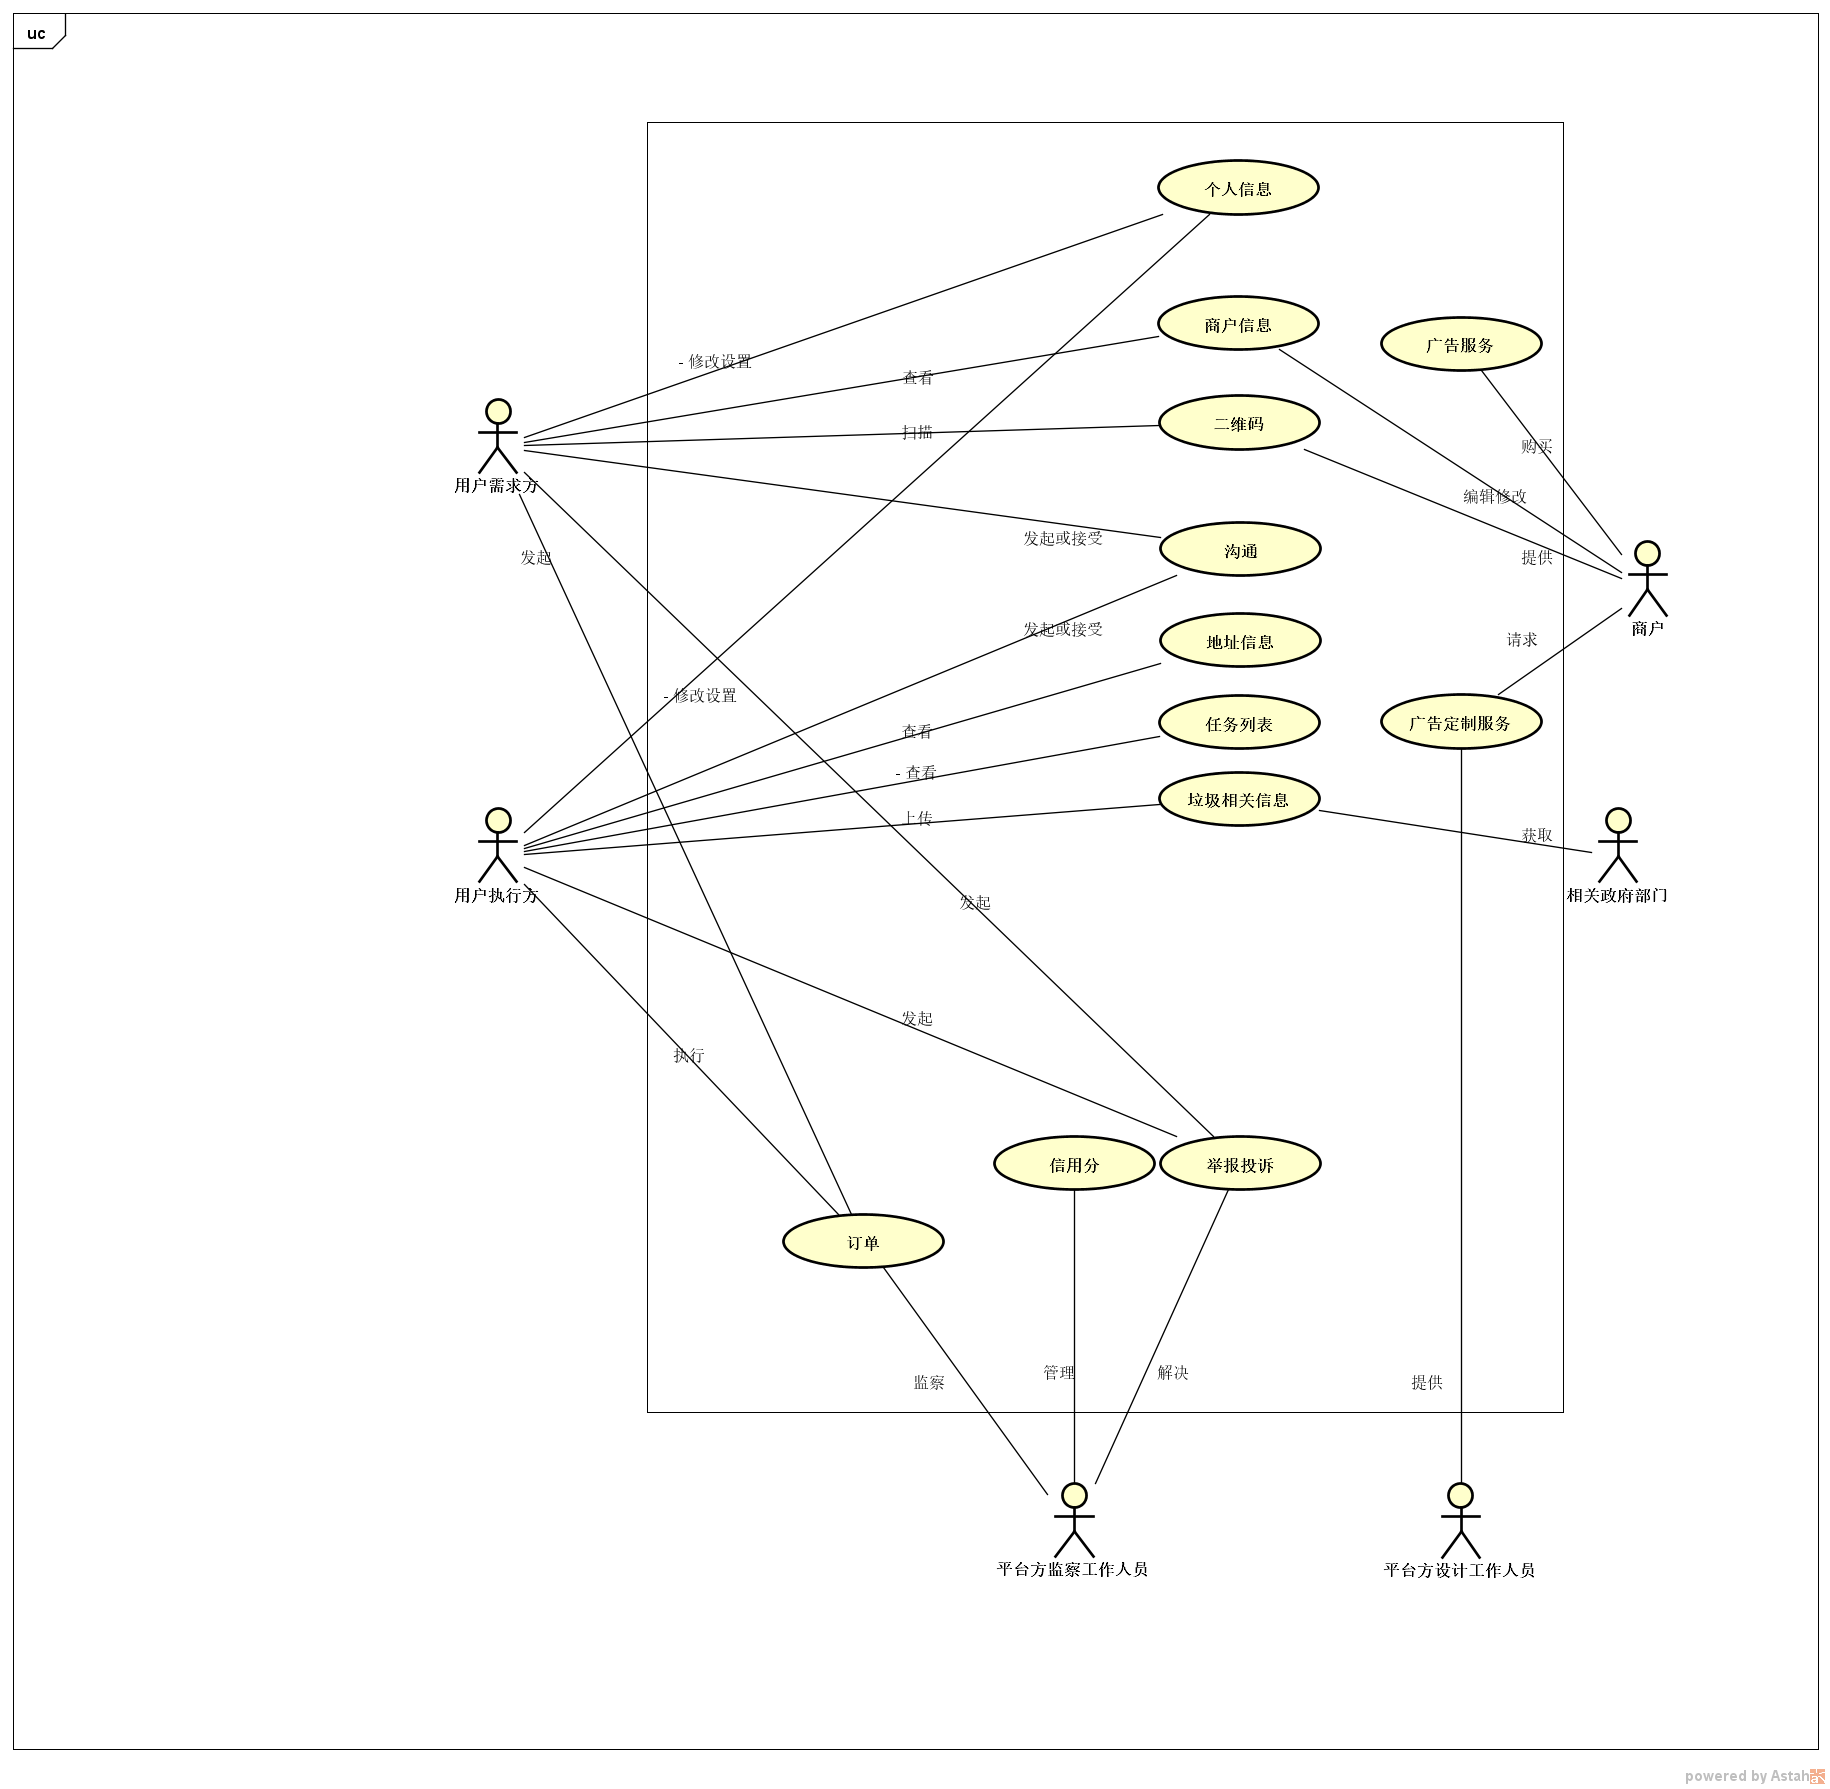
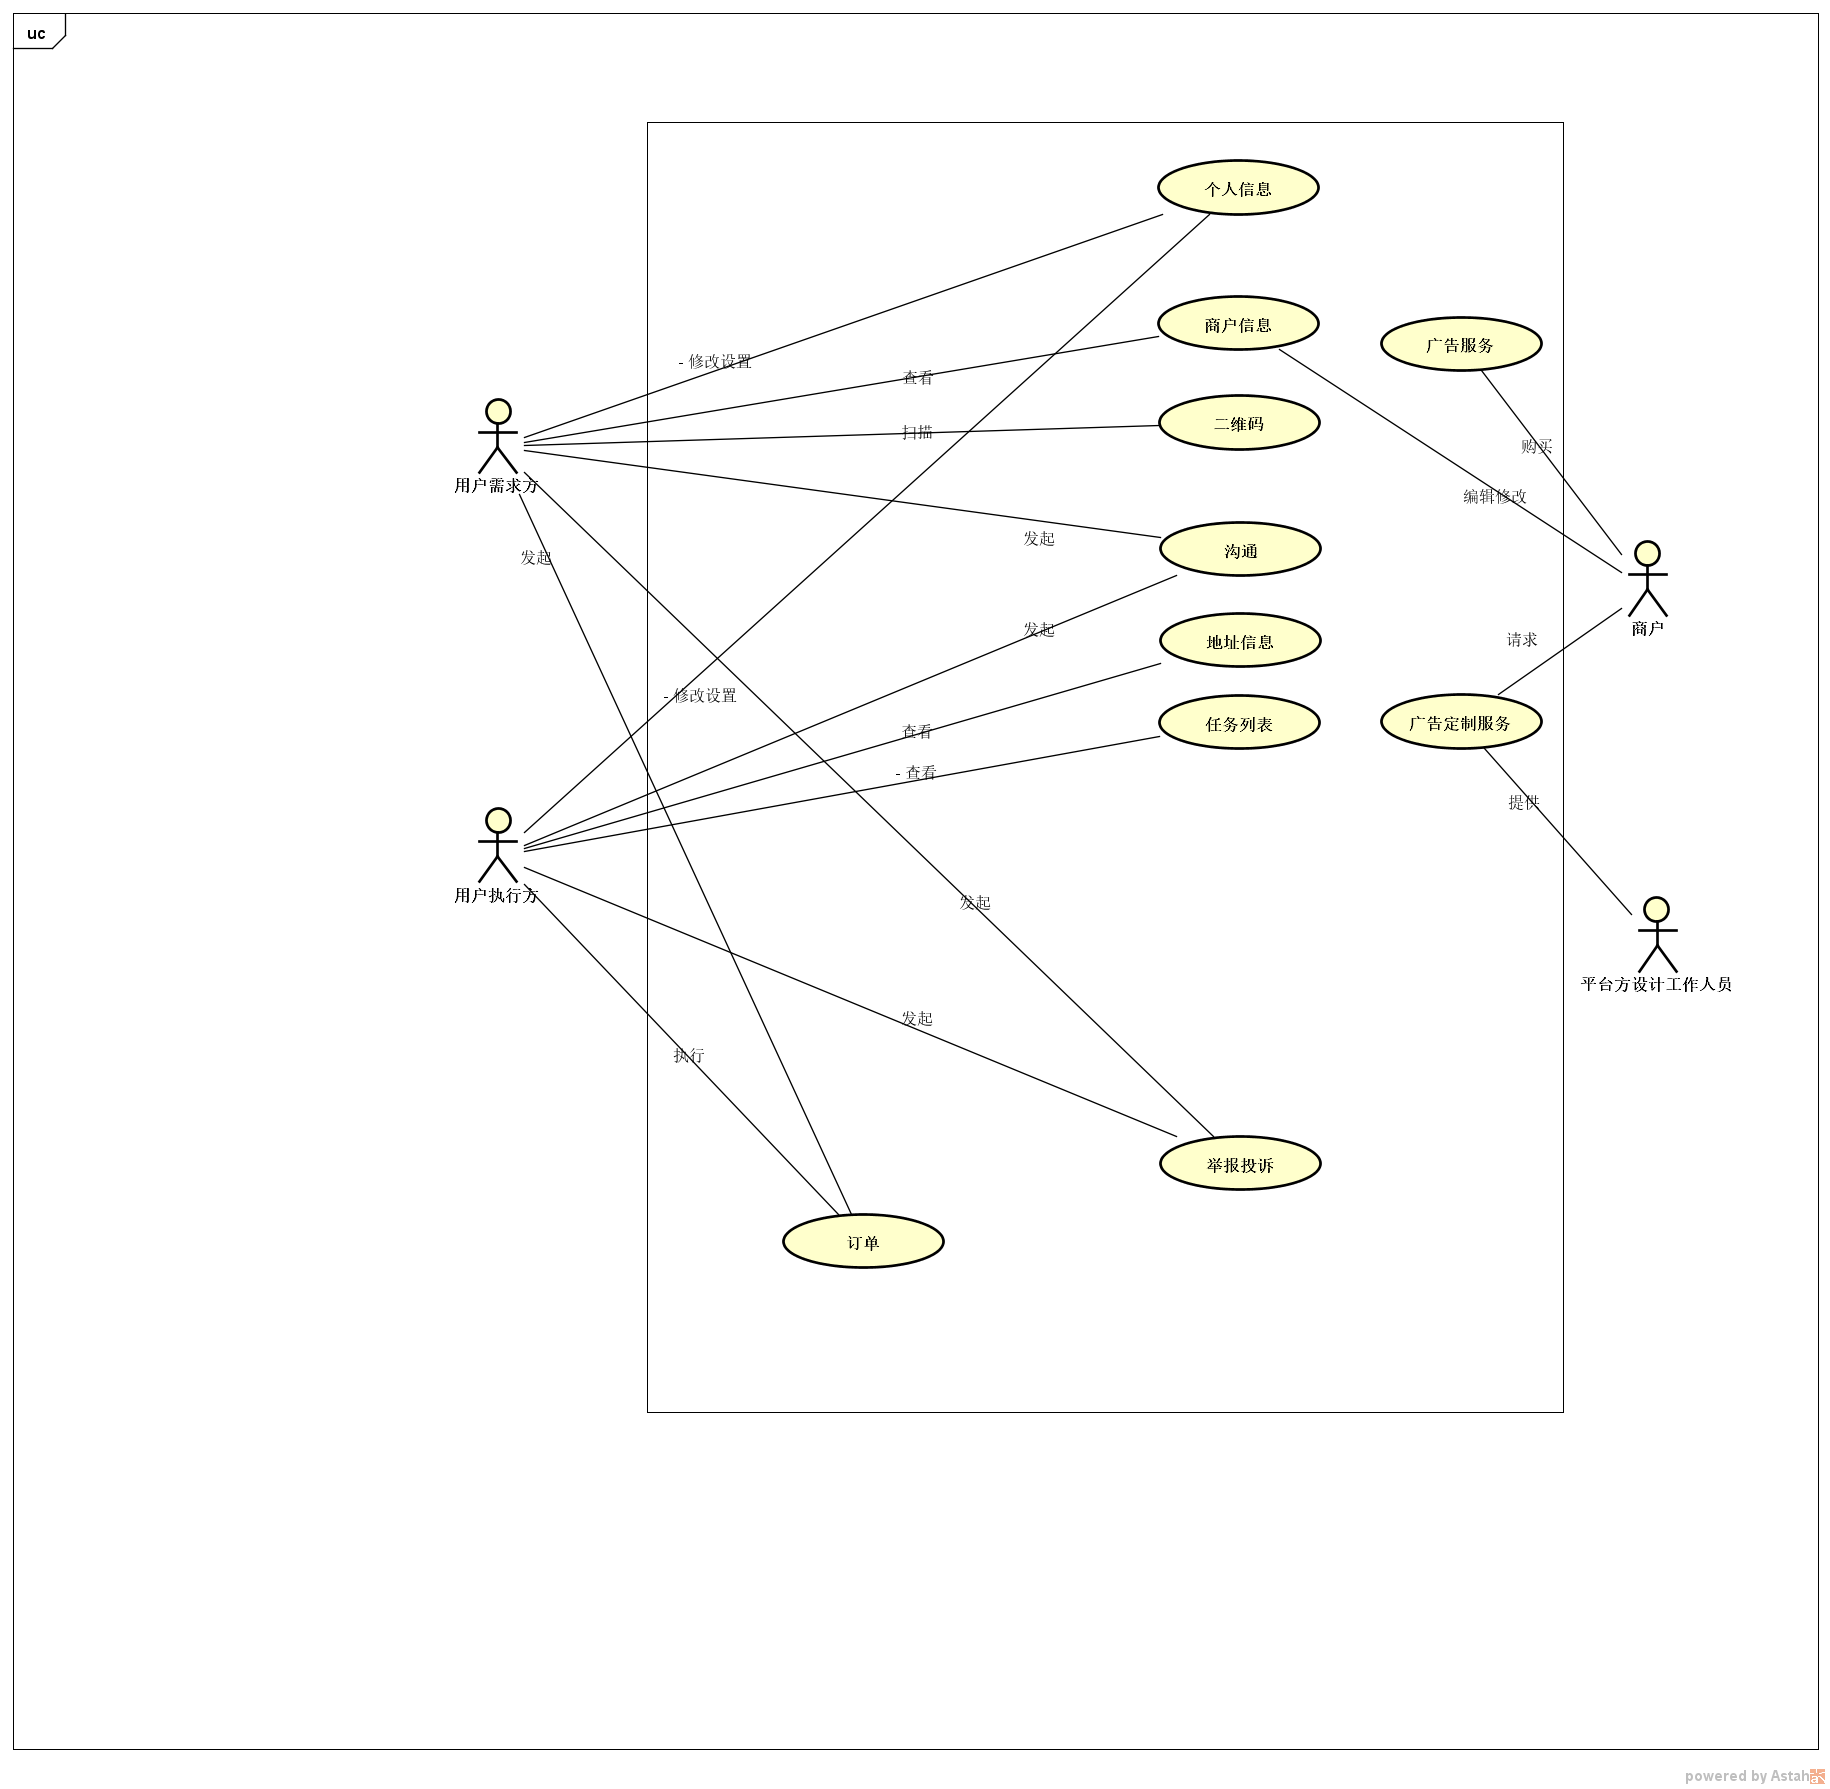
fix: 删除系统用例图不合理的部分

diff --git a/第4次作业/美扔-需求获取文档.md b/第4次作业/美扔-需求获取文档.md
@@ -438,9 +438,7 @@
 | SF11 | 用户查看垃圾袋提供者         | 用户可以在商户界面查看附近免费提供垃圾袋的商户或者投放点     |
 | SF12 | 用户扫码获得垃圾袋           | 用户可以在商户界面选择扫码，扫得商家的二维码，并获得垃圾袋     |
 | SF13 | 商户向平台购买广告服务       | 商户可以购买一定数量的垃圾袋来推广产品 |
-| SF14 | 平台监管功能                 | 平台的监管部门会审查垃圾分类是否严格按照要求执行，若发现执行者不按要求执行进行相应的处罚 |
-| SF15 | 数据收集                     | 平台收集相关的垃圾信息，交给相关部门如政府部门使用           |
-|SF16|垃圾袋定制|商户可以直接与平台相关人员对接，沟通需要的定制图案|
+|SF14|垃圾袋定制|商户可以直接与平台相关人员对接，沟通需要的定制图案|
 
 ##### 3.2.2.2 提出系统特性的理由
 
@@ -475,12 +473,6 @@
 |业务优势|售后服务比较可靠，让用户交易更加安心|
 |代价|需要长期聘请大量的后期客服和监察人员，审查分类质量|
 
-|要素|内容|
-|----|----|
-|ID|P5|
-|解决方案描述|平台通过数据收集，收集执行者拍的垃圾分类的图，获取某个地域内的不同类别垃圾的种类和数量，反馈给相关部门，合理分配垃圾投放量|
-|业务优势|经过一段时间业务累积可以获得大体量的数据|
-|代价|需要好的识别算法，好的分析硬件和技术人员的维护|
 
 ##### 3.2.2.3 系统特征和业务需求对应表
 
@@ -499,26 +491,20 @@
 |SF11|P3|用户可以用地图查看提供垃圾袋的地点|
 |SF12|P3|用户可以扫码获取垃圾袋|
 |SF13|P3|小商户可以向平台购买垃圾袋|
-|SF14|P4|平台后期监察人员实时监控垃圾代扔行为|
-|SF15|P5|平台收集垃圾数据|
-|SF16|P3|平台与商户对接|
+|SF14|P3|平台与商户对接|
 
 
 #### 3.2.3 系统用例图
-
 - p1
   ![uc1](Figure/UseCase%20Diagram0.png)
 - p2
-  ![uc2](Figure/UseCase%20Diagram1.png)
+- ![uc2](Figure/UseCase%20Diagram1.png)
 - p3
-  ![uc3](Figure/UseCase%20Diagram2.png)
+- ![uc3](Figure/UseCase%20Diagram2.png)
 - p4
-  ![uc4](Figure/UseCase%20Diagram3.png)
-- p5
-  ![uc5](Figure/UseCase%20Diagram4.png)
+- ![uc4](Figure/UseCase%20Diagram3.png)
 - 系统
-  ![uc6](Figure/UseCase%20Diagram5.png)
-
+- ![uc5](Figure/UseCase%20Diagram5.png)
 #### 3.2.4 假设和依赖
 
 ##### 假设
